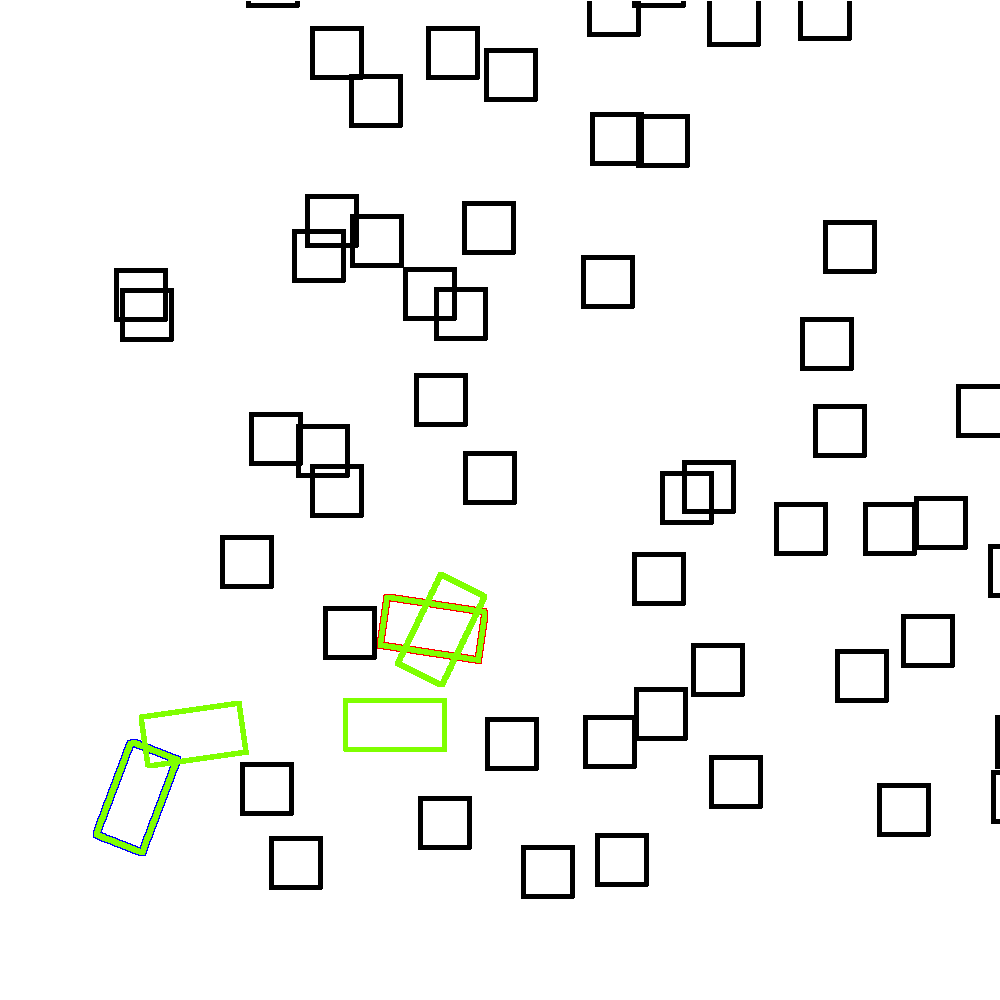
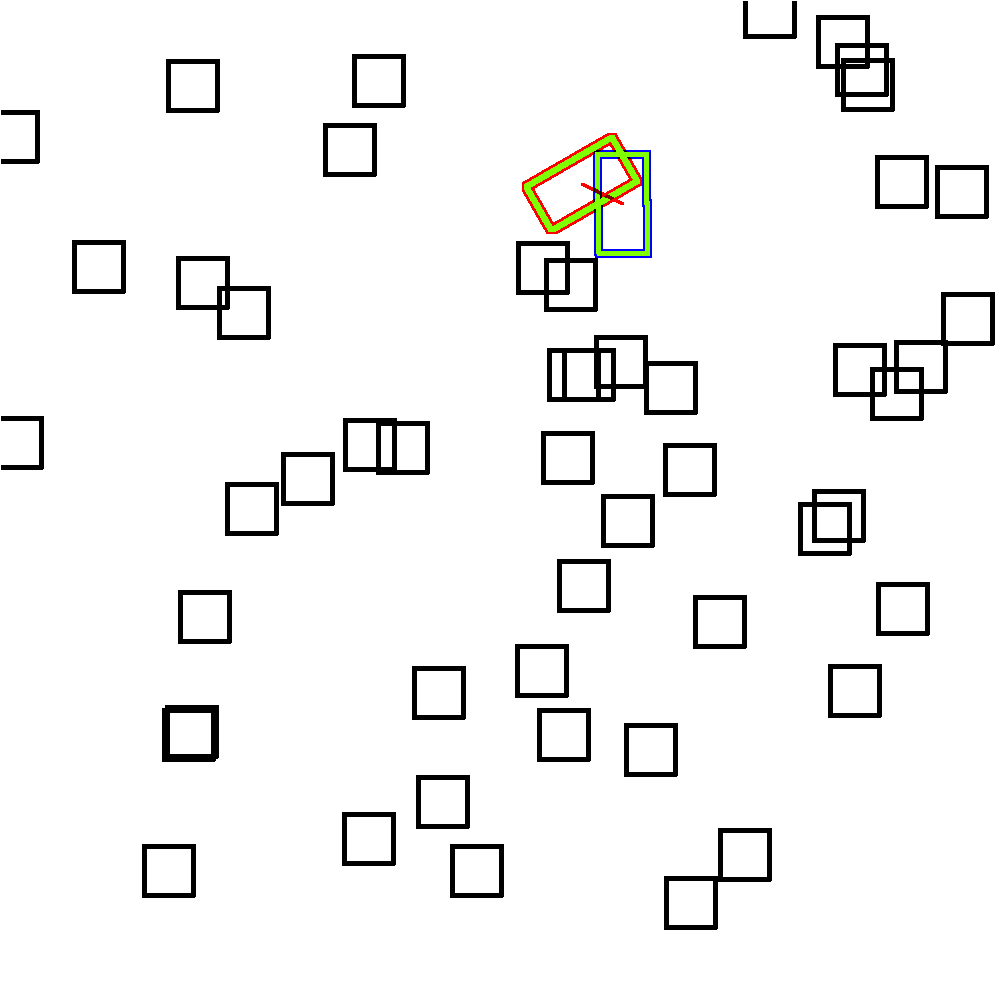
debug

diff --git a/src/env_robot.py b/src/env_robot.py
@@ -53,15 +53,14 @@ class Env_Robot:
         if robot == "2-link":
             self.robot_type = robot
             self.robot_size = [1, 0.1, 1, 0.1]
-            robot
 
         # init obstacles
         if obs is None:
             self.obstacles = []
             self.obstacles_vis = []
-            for i in range(70):
+            for i in range(50):
                 obs_i_model = fcl.Box(1, 1, 0)
-                obs_i_t = np.array([20, 20, 0]) * np.random.rand(3) + np.array([2.5, 2.5, 0])
+                obs_i_t = np.array([20, 20, 0]) * np.random.rand(3) + np.array([0, 0, 0])
                 # obs_i_t = np.array([10, 10, 0])
 
                 self.obstacles_vis.append([1, 1] + list(obs_i_t)[:2] + [0])

diff --git a/src/visualization.py b/src/visualization.py
@@ -217,8 +217,8 @@ def plot_rotat_rec_path_2D(fig, path, pixel_per_meter):
     l = len(centers)
     if l >= 2:
         for i in range(l - 1):
-            p1 = l[i]
-            p2 = l[i + 1]
+            p1 = centers[i]
+            p2 = centers[i + 1]
             fig = plot_line_in_fig_2D(fig, start=p1, end=p2, r=1, color='red')
 
     return fig
